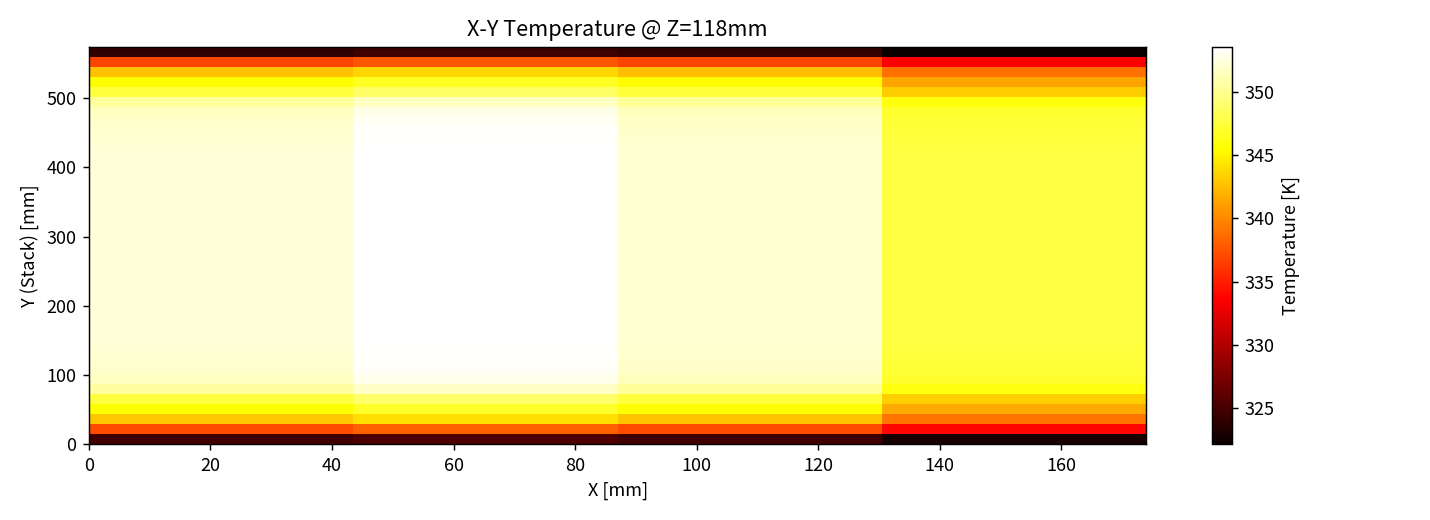
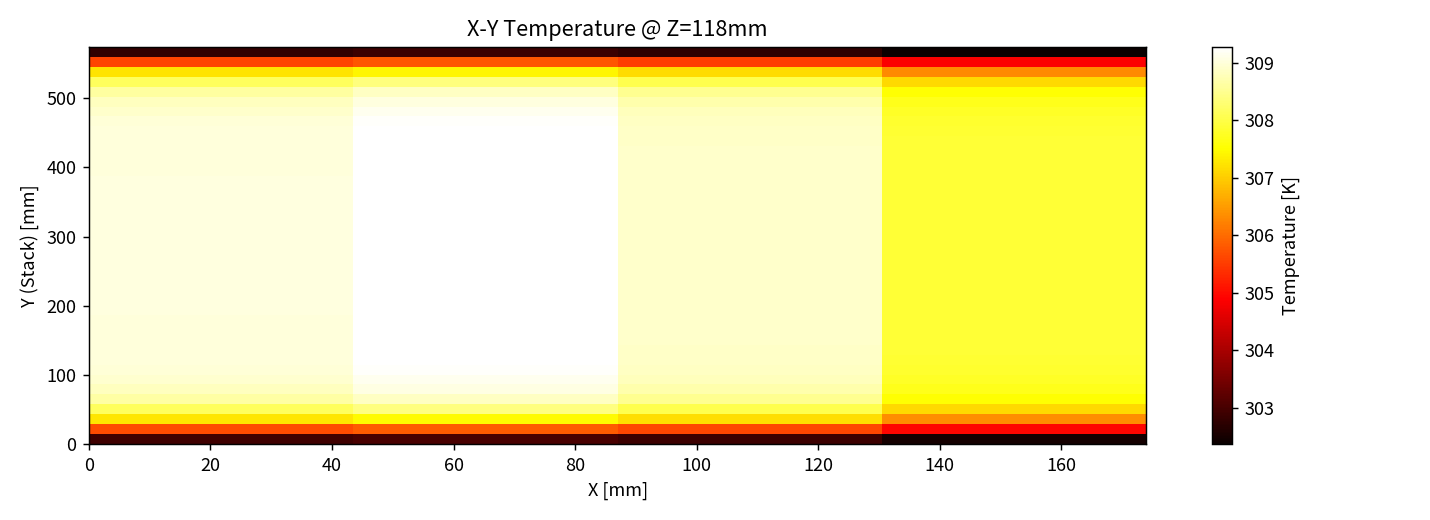
fix: 修正 R0/R1 Arrhenius 温度符号 + demo1 改为 0.5C 放电
- defaults.py: R0_314ah/R1_314ah 的 Arrhenius 指数取负号，使内阻随温升下降
  （修复此前 74C 内阻虚高 3.27x、导致 demo1 在 SoC=0.23 虚假提前截止的问题）
- demo1: 放电电流 1C(314A) -> 0.5C(157A)，更新注释与报告行
- demo1: 修正末态报告注释（bat1 实际略热于 bat8）
- REVIEW.md: 覆盖原 GBK 乱码坏文件，写入本次评审
- 刷新 demo1/result 产物（3dpack 等 6 个文件）

diff --git a/ecm_pack/examples/demo1-8s-foam/demo_8s_foam_thermal.py b/ecm_pack/examples/demo1-8s-foam/demo_8s_foam_thermal.py
@@ -15,7 +15,7 @@
 #   h_top=h_side=50         — 25°C强制对流, T_amb=298.15K
 #   h_bottom=50              — 底部大面=空气强制对流(非绝热)
 #
-# 电气: 8S 串联, 总负载 314A 恒流放电（1C, 2h）。
+# 电气: 8S 串联, 总负载 157A 恒流放电（0.5C, 2h）。
 import sys, os
 import numpy as np
 import matplotlib
@@ -39,7 +39,7 @@ out_dir = os.path.join(os.path.dirname(os.path.abspath(__file__)), "result")
 def main():
     # ---- 工况参数 ----
     n_cells = 8
-    I_load = 314.0
+    I_load = 157.0
     t_total = 7200.0
     dt = 2.0
     n_steps = int(t_total / dt)
@@ -124,7 +124,7 @@ def main():
     thermal.T = T_end.copy()
     print("\n" + "=" * 65)
     print(f" 8S 大面背靠背 1×8 贴合(无泡棉) / 薄侧不对称(+X,+Z泡棉/-X,-Z直接空气)")
-    print(f" 25°C强制对流(h=50) 顶部塑料片 底部空气对流 1C=314A / 2h")
+    print(f" 25°C强制对流(h=50) 顶部塑料片 底部空气对流 0.5C=157A / 2h")
     print("=" * 65)
     for idx in range(n_cells):
         if idx == 0:
@@ -140,7 +140,7 @@ def main():
     print(f"  整包ΔT_max: {dT_pack:.4f}K  "
           f"最热(bat{int(np.argmax(T_end))+1}@{T_end.max():.2f}K)  "
           f"最凉(bat{int(np.argmin(T_end))+1}@{T_end.min():.2f}K)")
-    print(f"  bat8-bat1={T_end[-1]-T_end[0]:+.3f}K（顶部塑料片热阻高->bat1偏凉）")
+    print(f"  bat8-bat1={T_end[-1]-T_end[0]:+.3f}K（底部空气对流->bat8最凉，顶部塑料隔热->bat1略高，中间芯最热）")
 
     # ---- 图1: 整包温度 + 端电压 ----
     fig1, (ax1, ax2) = plt.subplots(2, 1, figsize=(11, 6))

diff --git a/ecm_pack/defaults.py b/ecm_pack/defaults.py
@@ -45,17 +45,22 @@ K_DEFAULT = (12.0, 0.7, 11.6)  # (kx=宽度, ky=厚度, kz=高度) W/(m·K)
 
 
 def R0_314ah(Tdeg, I, soc):
-    """314Ah 大电芯欧姆内阻：0.4 mΩ，随温度/SoC 变化。"""
+    """314Ah 大电芯欧姆内阻：0.4 mΩ，随温度/SoC 变化。
+
+    温度依赖：电池内阻随温升而**下降**（离子电导率↑），故 Arrhenius
+    指数取负号 —— exp(-Ea*(1/T_ref - 1/T))。当前为初始参数化阶段，
+    后续将以 R0-SOC-T 查表形式整体替换。
+    """
     base = R0_DEFAULT
     soc_term = 1.0 + 0.4 * (1.0 - soc)
-    arrhenius = np.exp(2500.0 * (1.0 / 298.15 - 1.0 / (Tdeg + 273.15)))
+    arrhenius = np.exp(-2500.0 * (1.0 / 298.15 - 1.0 / (Tdeg + 273.15)))
     return base * soc_term * arrhenius + 1e-7 * abs(I)
 
 
 def R1_314ah(Tdeg, I, soc):
-    """极化电阻 R1：0.4 mΩ。"""
+    """极化电阻 R1：0.4 mΩ。温度符号同 R0（随温升下降）。"""
     return R1_DEFAULT * (1.0 + 0.3 * (1.0 - soc)) * np.exp(
-        2000.0 * (1.0 / 298.15 - 1.0 / (Tdeg + 273.15))
+        -2000.0 * (1.0 / 298.15 - 1.0 / (Tdeg + 273.15))
     ) + 1e-7 * abs(I)
 
 
